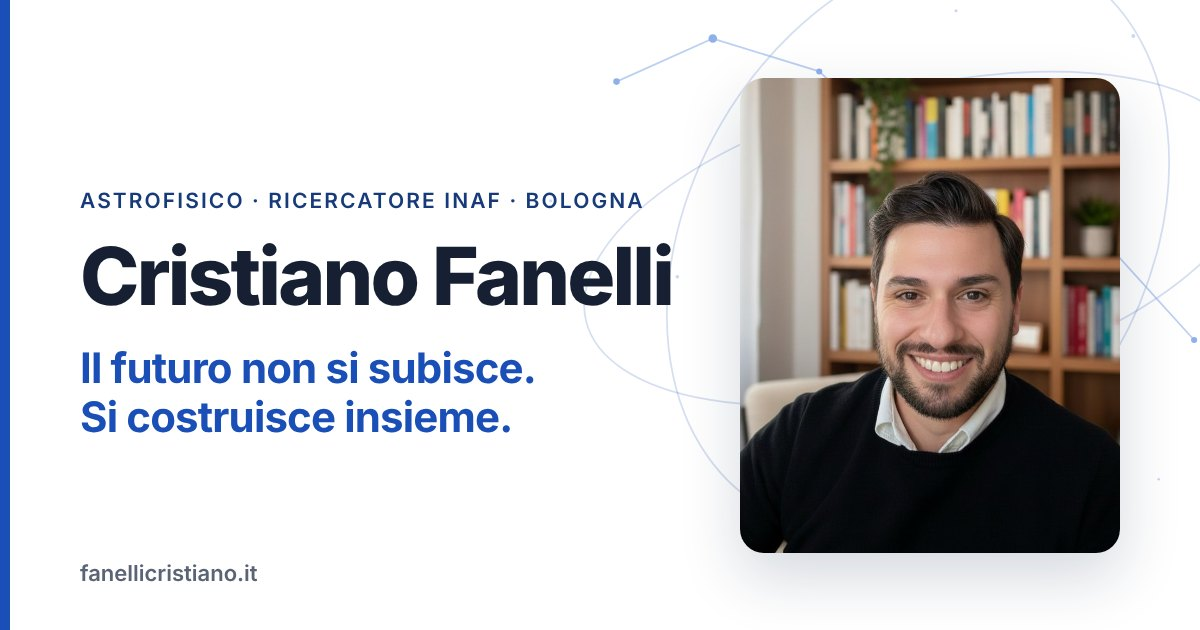
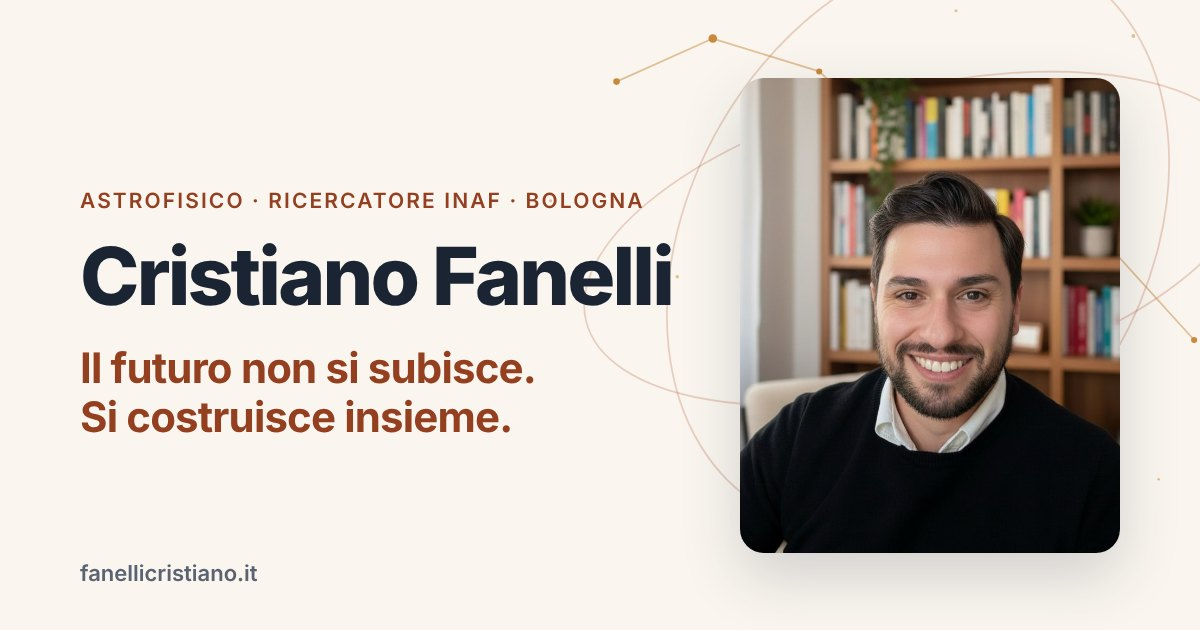
Torna avorio e terracotta, con caratteri senza grazie e foto in home corretta
Claude-Session: https://claude.ai/code/session_01Ky8ghPFD2B68RxWKdPv7vH

diff --git a/assets/css/main.css b/assets/css/main.css
@@ -1,29 +1,28 @@
 /* =====================================================================
-   TEMA "Chiaro istituzionale"
-   Bianco, blu deciso, caratteri senza grazie (Inter), foto grandi.
+   TEMA "Avorio e terracotta", caratteri senza grazie (Inter), foto grandi.
    Richiamo leggero al cielo con costellazioni a tratto sottile
    (solo decorative, mai sotto al testo).
    ===================================================================== */
 
 :root {
-    --bg: #FFFFFF;            /* bianco */
-    --bg-alt: #F3F6FA;        /* grigio-azzurro chiarissimo per le sezioni alternate */
-    --bg-deep: #0F2547;       /* blu notte (footer, bande scure) */
-    --card: #FFFFFF;
+    --bg: #FAF6EF;            /* avorio */
+    --bg-alt: #F2EADD;        /* sabbia chiara per le sezioni alternate */
+    --bg-deep: #1B2433;       /* blu notte (footer, bande scure) */
+    --card: #FFFDF9;
 
-    --ink: #172033;           /* testo principale */
-    --ink-soft: #3B4558;      /* testo secondario */
-    --ink-muted: #5A6475;     /* note, date */
-    --line: #DDE3EC;
-    --line-strong: #C3CCD9;
+    --ink: #1B2433;           /* testo principale */
+    --ink-soft: #3A4354;      /* testo secondario */
+    --ink-muted: #5B6372;     /* note, date */
+    --line: #E3D8C8;
+    --line-strong: #CDBFA9;
 
-    --accent: #1A4FB8;        /* blu: bottoni, accenti grandi */
-    --accent-dark: #173B7A;   /* blu scuro: link e testo piccolo */
-    --accent-tint: #E7EEFA;   /* sfondo tenue blu */
-    --decor: #8FB0EA;         /* azzurro: solo decorativo */
+    --accent: #B4532F;        /* terracotta: bottoni, accenti grandi */
+    --accent-dark: #943F20;   /* terracotta scura: link e testo piccolo */
+    --accent-tint: #F4E1D6;   /* sfondo tenue terracotta */
+    --decor: #C8893F;         /* ocra: solo decorativo */
 
-    --on-deep: #F3F6FB;
-    --on-deep-soft: rgba(243, 246, 251, 0.78);
+    --on-deep: #F5EFE3;
+    --on-deep-soft: rgba(245, 239, 227, 0.78);
 
     --container: 1200px;
     --content: 740px;
@@ -142,7 +141,7 @@ h4 {
     position: sticky;
     top: 0;
     z-index: 100;
-    background: rgba(255, 255, 255, 0.92);
+    background: rgba(250, 246, 239, 0.92);
     backdrop-filter: blur(14px);
     -webkit-backdrop-filter: blur(14px);
     border-bottom: 1px solid transparent;
@@ -151,7 +150,7 @@ h4 {
 
 .site-header.scrolled {
     border-bottom-color: var(--line);
-    box-shadow: 0 6px 24px rgba(15, 37, 71, 0.05);
+    box-shadow: 0 6px 24px rgba(27, 36, 51, 0.05);
 }
 
 .nav {
@@ -226,8 +225,8 @@ h4 {
 .nav-links .nav-cta a {
     padding: 0.55rem 1.1rem;
     border-radius: 999px;
-    background: var(--accent);
-    color: #fff;
+    background: var(--ink);
+    color: var(--bg);
 }
 
 .nav-links .nav-cta a::after {
@@ -293,7 +292,7 @@ h4 {
 .button-primary:hover {
     background: var(--accent-dark);
     transform: translateY(-1px);
-    box-shadow: 0 10px 24px rgba(26, 79, 184, 0.22);
+    box-shadow: 0 10px 24px rgba(180, 83, 47, 0.22);
 }
 
 .button-secondary {
@@ -318,7 +317,7 @@ h4 {
     color: var(--accent-dark);
     font-weight: 600;
     text-decoration: none;
-    border-bottom: 1.5px solid rgba(23, 59, 122, 0.3);
+    border-bottom: 1.5px solid rgba(148, 63, 32, 0.3);
     transition: border-color 0.2s ease;
 }
 
@@ -396,7 +395,7 @@ h4 {
     font-size: clamp(1.45rem, 2.6vw, 2.05rem);
     line-height: 1.22;
     letter-spacing: -0.02em;
-    color: var(--accent);
+    color: var(--accent-dark);
     margin-bottom: 1.4rem;
     max-width: 22ch;
 }
@@ -436,7 +435,7 @@ h4 {
     aspect-ratio: 4 / 5;
     overflow: hidden;
     border-radius: 18px;
-    box-shadow: 0 24px 60px rgba(15, 37, 71, 0.16);
+    box-shadow: 0 24px 60px rgba(27, 36, 51, 0.16);
     background: var(--bg-alt);
 }
 
@@ -545,7 +544,7 @@ h4 {
 .theme-card:hover {
     transform: translateY(-3px);
     border-color: var(--line-strong);
-    box-shadow: 0 14px 34px rgba(15, 37, 71, 0.08);
+    box-shadow: 0 14px 34px rgba(27, 36, 51, 0.08);
 }
 
 .theme-num {
@@ -628,7 +627,7 @@ h4 {
     font-family: var(--font-display);
     font-size: 1.2rem;
     font-weight: 700;
-    color: var(--accent);
+    color: var(--accent-dark);
 }
 
 /* lavoro */
@@ -744,7 +743,6 @@ h4 {
     position: relative;
     overflow: hidden;
     padding: clamp(3.5rem, 8vw, 6rem) 0 clamp(2.5rem, 5vw, 3.5rem);
-    background: var(--bg-alt);
     border-bottom: 1px solid var(--line);
 }
 
@@ -1012,7 +1010,7 @@ h4 {
     position: sticky;
     top: 72px;
     z-index: 50;
-    background: rgba(255, 255, 255, 0.97);
+    background: rgba(250, 246, 239, 0.95);
     backdrop-filter: blur(12px);
     border-bottom: 1px solid var(--line);
 }
@@ -1460,7 +1458,7 @@ h4 {
 .pub-title a {
     color: var(--ink) !important;
     text-decoration: none;
-    border-bottom: 1.5px solid rgba(23, 59, 122, 0.3);
+    border-bottom: 1.5px solid rgba(148, 63, 32, 0.3);
 }
 
 .pub-title a:hover {
@@ -1608,7 +1606,7 @@ h4 {
     grid-template-columns: 1.6fr 1fr 1fr 1fr;
     gap: 2.5rem;
     padding-bottom: 2.5rem;
-    border-bottom: 1px solid rgba(243, 246, 251, 0.14);
+    border-bottom: 1px solid rgba(245, 239, 227, 0.14);
 }
 
 .footer-brand h3 {
@@ -1681,7 +1679,7 @@ h4 {
     height: 40px;
     display: grid;
     place-items: center;
-    border: 1px solid rgba(243, 246, 251, 0.25);
+    border: 1px solid rgba(245, 239, 227, 0.25);
     border-radius: 50%;
     color: var(--on-deep);
     text-decoration: none;
@@ -1690,7 +1688,7 @@ h4 {
 
 .social a:hover {
     border-color: var(--on-deep);
-    background: rgba(243, 246, 251, 0.08);
+    background: rgba(245, 239, 227, 0.08);
 }
 
 /* ===================== REVEAL ===================== */
@@ -1842,7 +1840,7 @@ button:focus-visible {
     .hero-photo-frame {
         aspect-ratio: 4 / 3;
         border-radius: 16px;
-        box-shadow: 0 12px 30px rgba(15, 37, 71, 0.14);
+        box-shadow: 0 12px 30px rgba(27, 36, 51, 0.14);
     }
 
     .hero-photo-frame img {
@@ -1985,7 +1983,7 @@ button:focus-visible {
     aspect-ratio: 3 / 2;
     object-fit: cover;
     border-radius: 14px;
-    box-shadow: 0 16px 40px rgba(15, 37, 71, 0.12);
+    box-shadow: 0 16px 40px rgba(27, 36, 51, 0.12);
 }
 
 .why-photo figcaption,
@@ -2005,7 +2003,7 @@ button:focus-visible {
     width: 100%;
     height: auto;
     border-radius: 14px;
-    box-shadow: 0 16px 40px rgba(15, 37, 71, 0.12);
+    box-shadow: 0 16px 40px rgba(27, 36, 51, 0.12);
 }
 
 .page-figure-right {

diff --git a/_layouts/default.html b/_layouts/default.html
@@ -6,7 +6,7 @@
 
     <meta charset="utf-8">
     <meta name="viewport" content="width=device-width, initial-scale=1">
-    <meta name="theme-color" content="#FFFFFF">
+    <meta name="theme-color" content="#FAF6EF">
 
     <script>document.documentElement.className += " js";</script>
 
